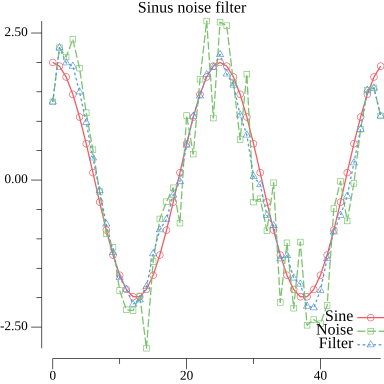
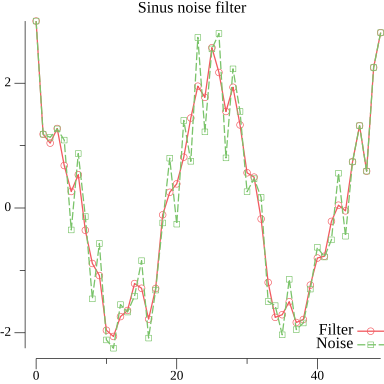
savitzky golay filter implementation

diff --git a/common/filter/filter.go b/common/filter/filter.go
@@ -1,26 +1,34 @@
+// Package filter provides an interface for filters and for elements that can pass through a filter.
+//
+// It contains a default implementation for the Savitzky-Golay filter.
 package filter
 
-type FilterFunction[TElement FilterableElement] func(Interface[TElement], []TElement, string) []TElement
+// FilterFunction is a function that applies a filter to a slice of type FilterableElement.
+type FilterFunction[TElement FilterableElement] func(Interface[TElement], []TElement) []TElement
 
-type Filter[TElement FilterableElement] struct {
+type filter[TElement FilterableElement] struct {
 	FilterFunction FilterFunction[TElement]
 	Elements       []TElement
 	size           int
 	full           bool
 }
 
-func (f *Filter[TElement]) Size() int {
+func (f *filter[TElement]) Keys() []string {
+	return []string{"x"}
+}
+
+func (f *filter[TElement]) Size() int {
 	return f.size
 }
 
-func (f *Filter[TElement]) Step(element TElement) (*TElement, FilterError) {
+func (f *filter[TElement]) Step(element TElement) (*TElement, FilterError) {
 	f.Elements = append(f.Elements, element)
 	if !f.full && len(f.Elements) < f.size {
 		return nil, NotFullError{}
 	}
 	f.full = true
 
-	f.Elements = f.FilterFunction(f, f.Elements, "x")
+	f.Elements = f.FilterFunction(f, f.Elements)
 	poppedElement := &(f.Elements[0])
 	f.Elements = f.Elements[1:]
 	return poppedElement, nil

diff --git a/common/filter/savitzkyGolay.go b/common/filter/savitzkyGolay.go
@@ -1,24 +1,35 @@
 package filter
 
-func NewSavitzkyGolayFilter[TElement FilterableElement](length int, order int) Filter[TElement] {
-	return Filter[TElement]{
-		FilterFunction: func(f Interface[TElement], elements []TElement, key string) []TElement {
+const divisor = 35.0
+
+var coefficients = []float64{-3, 12, 17, 12, -3}
+
+func NewSavitzkyGolayFilter[TElement FilterableElement](length int, order int) filter[TElement] {
+	return filter[TElement]{
+		FilterFunction: func(f Interface[TElement], elements []TElement) []TElement {
+			keys := f.Keys()
 			updateIndex := f.Size() / 2
-			sum := 0.0
-			for i := range f.Size() {
-				val, err := elements[i].Get(key)
+
+			for _, k := range keys {
+
+				//Per series filter logic
+				sum := 0.0
+				for i := range f.Size() {
+					rawValue, err := elements[i].Get(k)
+					if err != nil {
+						return elements
+					}
+					sum += coefficients[i] * rawValue
+				}
+				filteredValue := sum / divisor
+				err := elements[updateIndex].Update(k, filteredValue)
 				if err != nil {
 					return elements
 				}
-				sum += val
-				if err != nil {
-					return elements
-				}
+				//End of filter logic
+
 			}
-			err := elements[updateIndex].Update(key, sum/float64(f.Size()))
-			if err != nil {
-				return elements
-			}
+
 			return elements
 		},
 		full: false,

diff --git a/common/filter/filter_test.go b/common/filter/filter_test.go
@@ -16,10 +16,6 @@ type testElement struct {
 	x float64
 }
 
-func (t *testElement) Keys() []string {
-	return []string{"x"}
-}
-
 func (t *testElement) Update(key string, val float64) error {
 	if key == "x" {
 		t.x = val
@@ -34,12 +30,6 @@ func (t *testElement) Get(key string) (float64, error) {
 	}
 	return 0, KeyNotFoundError{}
 }
-
-//func TestGolayFilter(t *testing.T) {
-//	f := testFilter{
-//		elements: make([]FilterableElement, 0),
-//	}
-//}
 
 func TestPlot(t *testing.T) {
 	const points = 50
@@ -56,10 +46,10 @@ func TestPlot(t *testing.T) {
 		noiseSine[i].X = x
 		noiseSine[i].Y = y + (rand.Float64()-0.5)*scale
 	}
-	filter := NewSavitzkyGolayFilter[*testElement](5, 0)
+	testFilter := NewSavitzkyGolayFilter[*testElement](5, 0)
 	j := 0
 	for i := range noiseSine {
-		y, err := filter.Step(&testElement{x: noiseSine[i].Y})
+		y, err := testFilter.Step(&testElement{x: noiseSine[i].Y})
 		if errors.Is(err, NotFullError{}) {
 			continue
 		}
@@ -88,9 +78,10 @@ func TestPlot(t *testing.T) {
 	p := plot.New()
 	p.Title.Text = "Sinus noise filter"
 	err := plotutil.AddLinePoints(p,
-		"Sine", sine,
+		"Filter", filtered,
 		"Noise", noiseSine,
-		"Filter", filtered)
+		//"Sine", sine
+	)
 	assert.NoError(t, err)
 	err = p.Save(4*vg.Inch, 4*vg.Inch, "points.png")
 	assert.NoError(t, err)

diff --git a/common/filter/interface.go b/common/filter/interface.go
@@ -1,12 +1,19 @@
 package filter
 
 type Interface[TElement FilterableElement] interface {
+	// Step increments the data through the filter window,
+	// if the filter is full, the last element in the filter will be returned.
 	Step(TElement) (*TElement, FilterError)
+	// Size returns the size/length of the filter window.
 	Size() int
+	// Keys returns the keys for the data series to be passed through the filter.
+	Keys() []string
 }
 
+// FilterableElement is an element with one or more data points, to be passed through a filter.
 type FilterableElement interface {
-	Keys() []string
+	// Update mutates one of the data points in the element.
 	Update(key string, value float64) error
+	// Get returns the value associated with the given key.
 	Get(key string) (float64, error)
 }

diff --git a/common/filter/error.go b/common/filter/error.go
@@ -5,7 +5,7 @@ type FilterError error
 type NotFullError struct{}
 
 func (NotFullError) Error() string {
-	return "Filter is not full yet, more steps are needed before any elements can leave the filter"
+	return "filter is not full yet, more steps are needed before any elements can leave the filter"
 }
 
 type KeyNotFoundError struct{}
